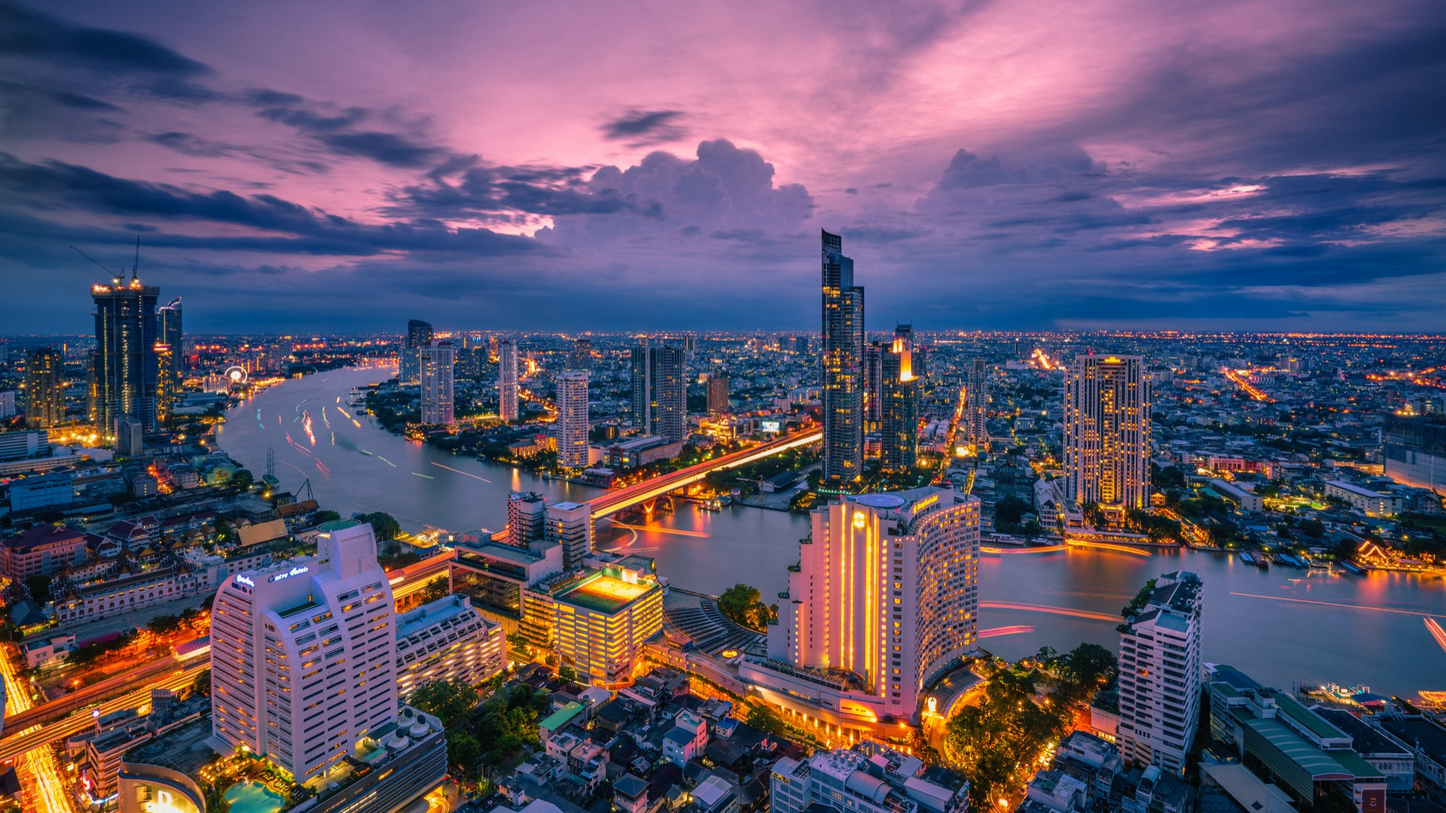
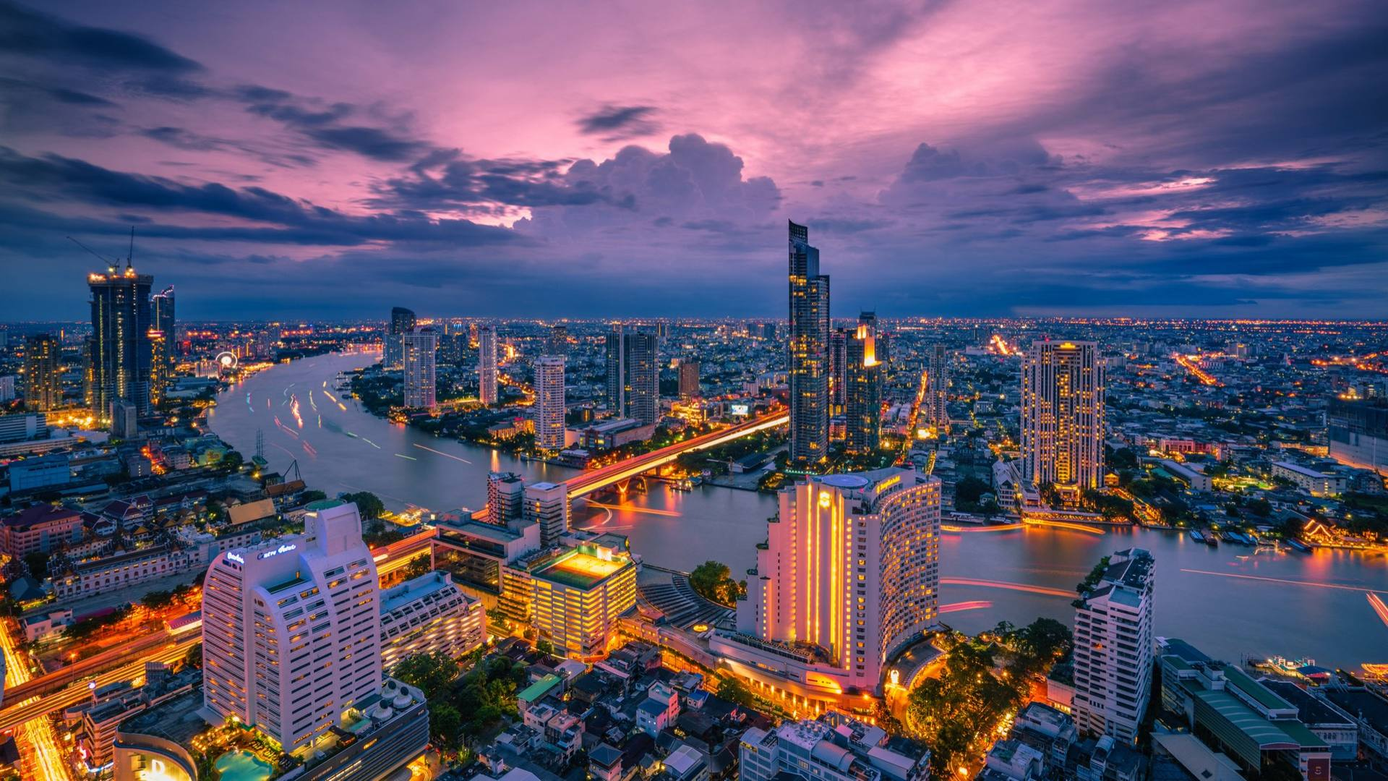
構造化データを強化（ブランド・親会社URL・登記番号・説明、会社情報ページにも追加）、お知らせ・お問い合わせの見出し写真を1920px幅に圧縮（594→317KB、504→200KB）

diff --git a/th/about.html b/th/about.html
@@ -35,6 +35,32 @@ j=d.createElement(s),dl=l!='dataLayer'?'&l='+l:'';j.async=true;j.src=
 <link rel="preconnect" href="https://fonts.gstatic.com" crossorigin>
 <link rel="stylesheet" href="https://fonts.googleapis.com/css2?family=Archivo:wght@500;600;700&family=Noto+Sans+JP:wght@400;500;600;700&family=Noto+Sans+Thai:wght@400;500;600;700&display=swap">
 <link rel="stylesheet" href="/assets/css/style.css">
+<script type="application/ld+json">
+{
+  "@context": "https://schema.org",
+  "@type": "Organization",
+  "@id": "https://www.ipi.co.th/#organization",
+  "name": "IPI (THAILAND) CO., LTD.",
+  "legalName": "IPI (THAILAND) CO., LTD.",
+  "alternateName": "บริษัท ไอพีไอ (ประเทศไทย) จำกัด",
+  "description": "Master franchisee of the Japanese pizza brand Napoli no Kama in Thailand, operating company-owned and franchise branches.",
+  "url": "https://www.ipi.co.th/",
+  "logo": "https://www.ipi.co.th/assets/images/logo-high.png",
+  "foundingDate": "2016-08-18",
+  "taxID": "0105559128952",
+  "areaServed": { "@type": "Country", "name": "Thailand" },
+  "brand": { "@type": "Brand", "name": "Napoli no Kama", "url": "https://www.napolinokamathailand.com/" },
+  "parentOrganization": { "@type": "Organization", "name": "K2 Pattaya Co., Ltd.", "url": "https://www.k2pattaya.co.th/" },
+  "address": {
+    "@type": "PostalAddress",
+    "streetAddress": "152/27 Moo 5, Naklua",
+    "addressLocality": "Bang Lamung",
+    "addressRegion": "Chon Buri",
+    "postalCode": "20150",
+    "addressCountry": "TH"
+  }
+}
+</script>
 </head>
 <body>
 <!-- Google Tag Manager (noscript) -->

diff --git a/en/about.html b/en/about.html
@@ -35,6 +35,32 @@ j=d.createElement(s),dl=l!='dataLayer'?'&l='+l:'';j.async=true;j.src=
 <link rel="preconnect" href="https://fonts.gstatic.com" crossorigin>
 <link rel="stylesheet" href="https://fonts.googleapis.com/css2?family=Archivo:wght@500;600;700&family=Noto+Sans+JP:wght@400;500;600;700&display=swap">
 <link rel="stylesheet" href="/assets/css/style.css">
+<script type="application/ld+json">
+{
+  "@context": "https://schema.org",
+  "@type": "Organization",
+  "@id": "https://www.ipi.co.th/#organization",
+  "name": "IPI (THAILAND) CO., LTD.",
+  "legalName": "IPI (THAILAND) CO., LTD.",
+  "alternateName": "บริษัท ไอพีไอ (ประเทศไทย) จำกัด",
+  "description": "Master franchisee of the Japanese pizza brand Napoli no Kama in Thailand, operating company-owned and franchise branches.",
+  "url": "https://www.ipi.co.th/",
+  "logo": "https://www.ipi.co.th/assets/images/logo-high.png",
+  "foundingDate": "2016-08-18",
+  "taxID": "0105559128952",
+  "areaServed": { "@type": "Country", "name": "Thailand" },
+  "brand": { "@type": "Brand", "name": "Napoli no Kama", "url": "https://www.napolinokamathailand.com/" },
+  "parentOrganization": { "@type": "Organization", "name": "K2 Pattaya Co., Ltd.", "url": "https://www.k2pattaya.co.th/" },
+  "address": {
+    "@type": "PostalAddress",
+    "streetAddress": "152/27 Moo 5, Naklua",
+    "addressLocality": "Bang Lamung",
+    "addressRegion": "Chon Buri",
+    "postalCode": "20150",
+    "addressCountry": "TH"
+  }
+}
+</script>
 </head>
 <body>
 <!-- Google Tag Manager (noscript) -->

diff --git a/about.html b/about.html
@@ -34,6 +34,32 @@ j=d.createElement(s),dl=l!='dataLayer'?'&l='+l:'';j.async=true;j.src=
 <link rel="preconnect" href="https://fonts.gstatic.com" crossorigin>
 <link rel="stylesheet" href="https://fonts.googleapis.com/css2?family=Archivo:wght@500;600;700&family=Noto+Sans+JP:wght@400;500;600;700&display=swap">
 <link rel="stylesheet" href="assets/css/style.css">
+<script type="application/ld+json">
+{
+  "@context": "https://schema.org",
+  "@type": "Organization",
+  "@id": "https://www.ipi.co.th/#organization",
+  "name": "IPI (THAILAND) CO., LTD.",
+  "legalName": "IPI (THAILAND) CO., LTD.",
+  "alternateName": "บริษัท ไอพีไอ (ประเทศไทย) จำกัด",
+  "description": "Master franchisee of the Japanese pizza brand Napoli no Kama in Thailand, operating company-owned and franchise branches.",
+  "url": "https://www.ipi.co.th/",
+  "logo": "https://www.ipi.co.th/assets/images/logo-high.png",
+  "foundingDate": "2016-08-18",
+  "taxID": "0105559128952",
+  "areaServed": { "@type": "Country", "name": "Thailand" },
+  "brand": { "@type": "Brand", "name": "Napoli no Kama", "url": "https://www.napolinokamathailand.com/" },
+  "parentOrganization": { "@type": "Organization", "name": "K2 Pattaya Co., Ltd.", "url": "https://www.k2pattaya.co.th/" },
+  "address": {
+    "@type": "PostalAddress",
+    "streetAddress": "152/27 Moo 5, Naklua",
+    "addressLocality": "Bang Lamung",
+    "addressRegion": "Chon Buri",
+    "postalCode": "20150",
+    "addressCountry": "TH"
+  }
+}
+</script>
 </head>
 <body>
 <!-- Google Tag Manager (noscript) -->

diff --git a/en/index.html b/en/index.html
@@ -39,12 +39,18 @@ j=d.createElement(s),dl=l!='dataLayer'?'&l='+l:'';j.async=true;j.src=
 {
   "@context": "https://schema.org",
   "@type": "Organization",
+  "@id": "https://www.ipi.co.th/#organization",
   "name": "IPI (THAILAND) CO., LTD.",
+  "legalName": "IPI (THAILAND) CO., LTD.",
   "alternateName": "บริษัท ไอพีไอ (ประเทศไทย) จำกัด",
+  "description": "Master franchisee of the Japanese pizza brand Napoli no Kama in Thailand, operating company-owned and franchise branches.",
   "url": "https://www.ipi.co.th/",
   "logo": "https://www.ipi.co.th/assets/images/logo-high.png",
   "foundingDate": "2016-08-18",
-  "parentOrganization": { "@type": "Organization", "name": "K2 Pattaya Co., Ltd." },
+  "taxID": "0105559128952",
+  "areaServed": { "@type": "Country", "name": "Thailand" },
+  "brand": { "@type": "Brand", "name": "Napoli no Kama", "url": "https://www.napolinokamathailand.com/" },
+  "parentOrganization": { "@type": "Organization", "name": "K2 Pattaya Co., Ltd.", "url": "https://www.k2pattaya.co.th/" },
   "address": {
     "@type": "PostalAddress",
     "streetAddress": "152/27 Moo 5, Naklua",

diff --git a/index.html b/index.html
@@ -50,12 +50,18 @@ j=d.createElement(s),dl=l!='dataLayer'?'&l='+l:'';j.async=true;j.src=
 {
   "@context": "https://schema.org",
   "@type": "Organization",
+  "@id": "https://www.ipi.co.th/#organization",
   "name": "IPI (THAILAND) CO., LTD.",
+  "legalName": "IPI (THAILAND) CO., LTD.",
   "alternateName": "บริษัท ไอพีไอ (ประเทศไทย) จำกัด",
+  "description": "Master franchisee of the Japanese pizza brand Napoli no Kama in Thailand, operating company-owned and franchise branches.",
   "url": "https://www.ipi.co.th/",
   "logo": "https://www.ipi.co.th/assets/images/logo-high.png",
   "foundingDate": "2016-08-18",
-  "parentOrganization": { "@type": "Organization", "name": "K2 Pattaya Co., Ltd." },
+  "taxID": "0105559128952",
+  "areaServed": { "@type": "Country", "name": "Thailand" },
+  "brand": { "@type": "Brand", "name": "Napoli no Kama", "url": "https://www.napolinokamathailand.com/" },
+  "parentOrganization": { "@type": "Organization", "name": "K2 Pattaya Co., Ltd.", "url": "https://www.k2pattaya.co.th/" },
   "address": {
     "@type": "PostalAddress",
     "streetAddress": "152/27 Moo 5, Naklua",

diff --git a/th/index.html b/th/index.html
@@ -39,12 +39,18 @@ j=d.createElement(s),dl=l!='dataLayer'?'&l='+l:'';j.async=true;j.src=
 {
   "@context": "https://schema.org",
   "@type": "Organization",
+  "@id": "https://www.ipi.co.th/#organization",
   "name": "IPI (THAILAND) CO., LTD.",
+  "legalName": "IPI (THAILAND) CO., LTD.",
   "alternateName": "บริษัท ไอพีไอ (ประเทศไทย) จำกัด",
+  "description": "Master franchisee of the Japanese pizza brand Napoli no Kama in Thailand, operating company-owned and franchise branches.",
   "url": "https://www.ipi.co.th/",
   "logo": "https://www.ipi.co.th/assets/images/logo-high.png",
   "foundingDate": "2016-08-18",
-  "parentOrganization": { "@type": "Organization", "name": "K2 Pattaya Co., Ltd." },
+  "taxID": "0105559128952",
+  "areaServed": { "@type": "Country", "name": "Thailand" },
+  "brand": { "@type": "Brand", "name": "Napoli no Kama", "url": "https://www.napolinokamathailand.com/" },
+  "parentOrganization": { "@type": "Organization", "name": "K2 Pattaya Co., Ltd.", "url": "https://www.k2pattaya.co.th/" },
   "address": {
     "@type": "PostalAddress",
     "streetAddress": "152/27 Moo 5, Naklua",

diff --git a/th/news.html b/th/news.html
@@ -89,7 +89,7 @@ height="0" width="0" style="display:none;visibility:hidden"></iframe></noscript>
     <!-- 見出し帯 -->
     <section class="page-head">
       <div class="ph ph--photo page-head__band" data-arc-reveal>
-        <img src="/assets/images/stock-bangkok.jpg" alt="วิวกลางคืนของกรุงเทพฯ และแม่น้ำเจ้าพระยา" width="2000" height="1125">
+        <img src="/assets/images/stock-bangkok.jpg" alt="วิวกลางคืนของกรุงเทพฯ และแม่น้ำเจ้าพระยา" width="1920" height="1080">
         <div class="ph__arc" aria-hidden="true"></div>
         <div class="ph__arc ph__arc--faint" aria-hidden="true"></div>
         <div class="page-head__body">

diff --git a/th/contact.html b/th/contact.html
@@ -89,7 +89,7 @@ height="0" width="0" style="display:none;visibility:hidden"></iframe></noscript>
     <!-- 見出し帯 -->
     <section class="page-head" style="padding-bottom: clamp(64px, 8vw, 104px)">
       <div class="ph ph--photo page-head__band" data-arc-reveal>
-        <img src="/assets/images/stock-handshake.jpg" alt="คู่ค้าทางธุรกิจกำลังจับมือกัน" width="2400" height="1408">
+        <img src="/assets/images/stock-handshake.jpg" alt="คู่ค้าทางธุรกิจกำลังจับมือกัน" width="1920" height="1126">
         <div class="ph__arc" aria-hidden="true"></div>
         <div class="ph__arc ph__arc--faint" aria-hidden="true"></div>
         <div class="page-head__body">

diff --git a/contact.html b/contact.html
@@ -88,7 +88,7 @@ height="0" width="0" style="display:none;visibility:hidden"></iframe></noscript>
     <!-- 見出し帯 -->
     <section class="page-head" style="padding-bottom: clamp(64px, 8vw, 104px)">
       <div class="ph ph--photo page-head__band" data-arc-reveal>
-        <img src="assets/images/stock-handshake.jpg" alt="握手を交わすビジネスパートナー" width="2400" height="1408">
+        <img src="assets/images/stock-handshake.jpg" alt="握手を交わすビジネスパートナー" width="1920" height="1126">
         <div class="ph__arc" aria-hidden="true"></div>
         <div class="ph__arc ph__arc--faint" aria-hidden="true"></div>
         <div class="page-head__body">

diff --git a/en/contact.html b/en/contact.html
@@ -89,7 +89,7 @@ height="0" width="0" style="display:none;visibility:hidden"></iframe></noscript>
     <!-- 見出し帯 -->
     <section class="page-head" style="padding-bottom: clamp(64px, 8vw, 104px)">
       <div class="ph ph--photo page-head__band" data-arc-reveal>
-        <img src="/assets/images/stock-handshake.jpg" alt="Business partners shaking hands" width="2400" height="1408">
+        <img src="/assets/images/stock-handshake.jpg" alt="Business partners shaking hands" width="1920" height="1126">
         <div class="ph__arc" aria-hidden="true"></div>
         <div class="ph__arc ph__arc--faint" aria-hidden="true"></div>
         <div class="page-head__body">

diff --git a/news.html b/news.html
@@ -88,7 +88,7 @@ height="0" width="0" style="display:none;visibility:hidden"></iframe></noscript>
     <!-- 見出し帯 -->
     <section class="page-head">
       <div class="ph ph--photo page-head__band" data-arc-reveal>
-        <img src="assets/images/stock-bangkok.jpg" alt="チャオプラヤー川とバンコクの街の夜景" width="2000" height="1125">
+        <img src="assets/images/stock-bangkok.jpg" alt="チャオプラヤー川とバンコクの街の夜景" width="1920" height="1080">
         <div class="ph__arc" aria-hidden="true"></div>
         <div class="ph__arc ph__arc--faint" aria-hidden="true"></div>
         <div class="page-head__body">

diff --git a/en/news.html b/en/news.html
@@ -89,7 +89,7 @@ height="0" width="0" style="display:none;visibility:hidden"></iframe></noscript>
     <!-- 見出し帯 -->
     <section class="page-head">
       <div class="ph ph--photo page-head__band" data-arc-reveal>
-        <img src="/assets/images/stock-bangkok.jpg" alt="Bangkok and the Chao Phraya River at night" width="2000" height="1125">
+        <img src="/assets/images/stock-bangkok.jpg" alt="Bangkok and the Chao Phraya River at night" width="1920" height="1080">
         <div class="ph__arc" aria-hidden="true"></div>
         <div class="ph__arc ph__arc--faint" aria-hidden="true"></div>
         <div class="page-head__body">
